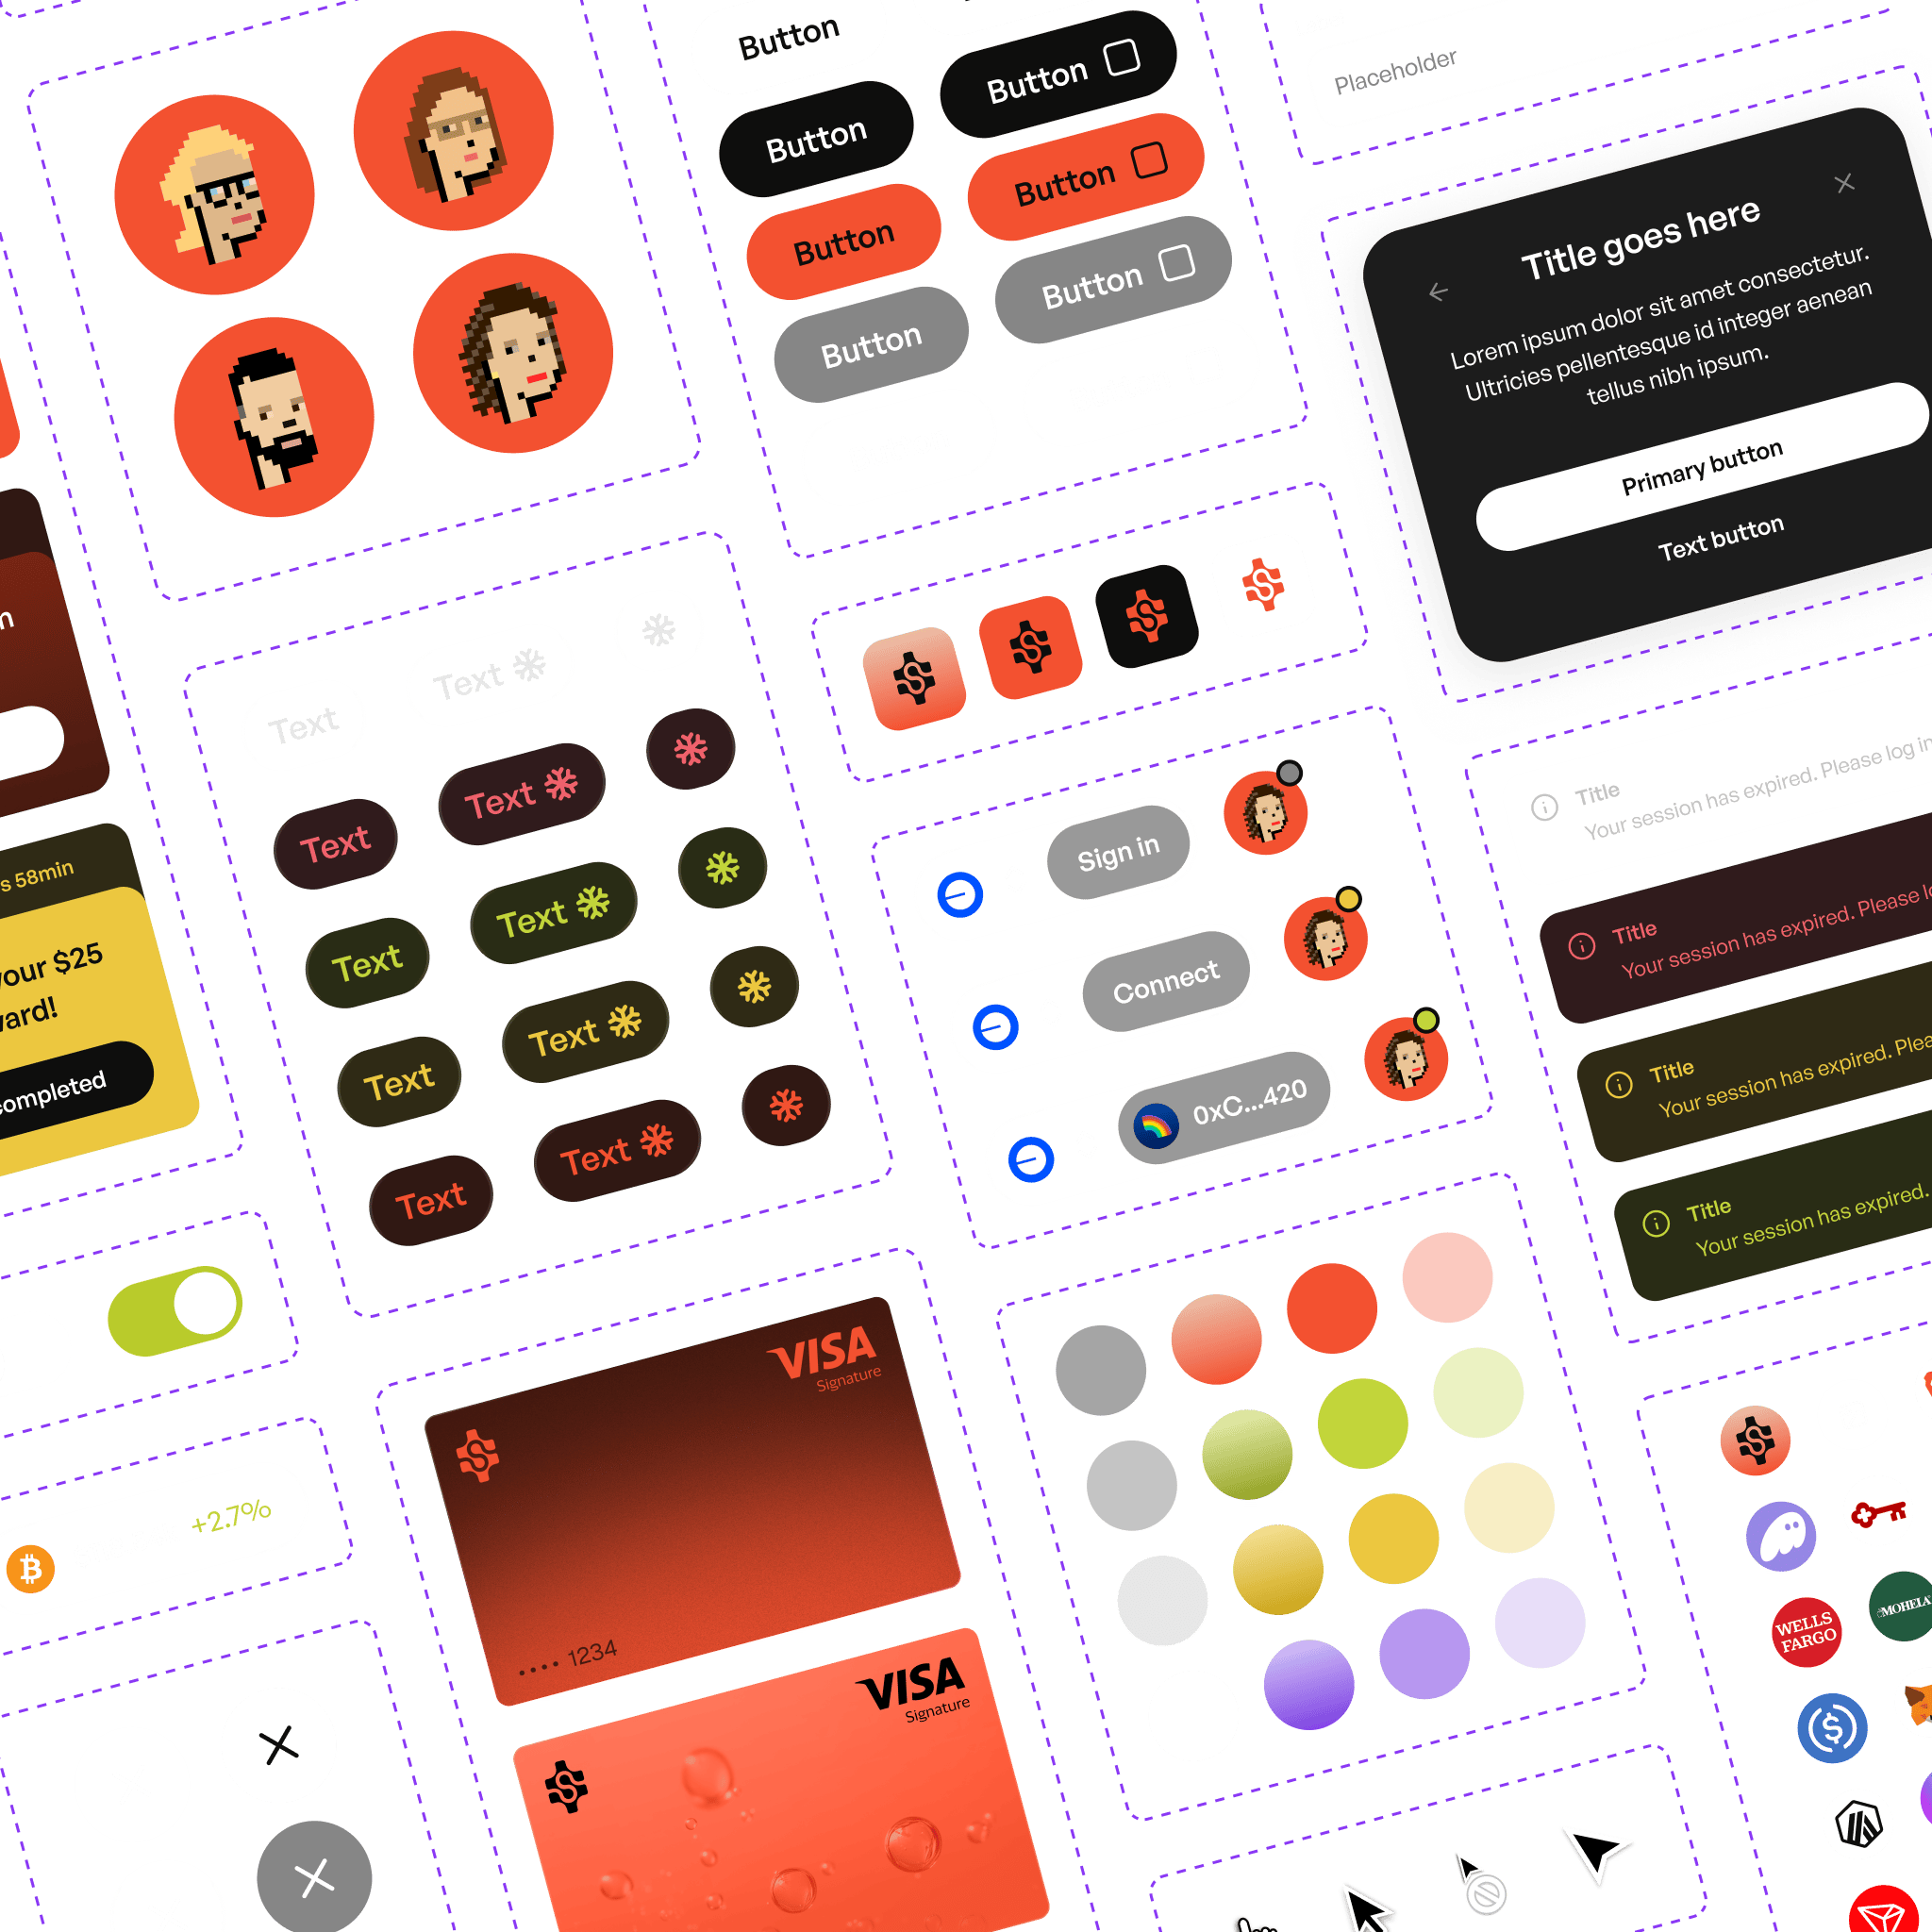
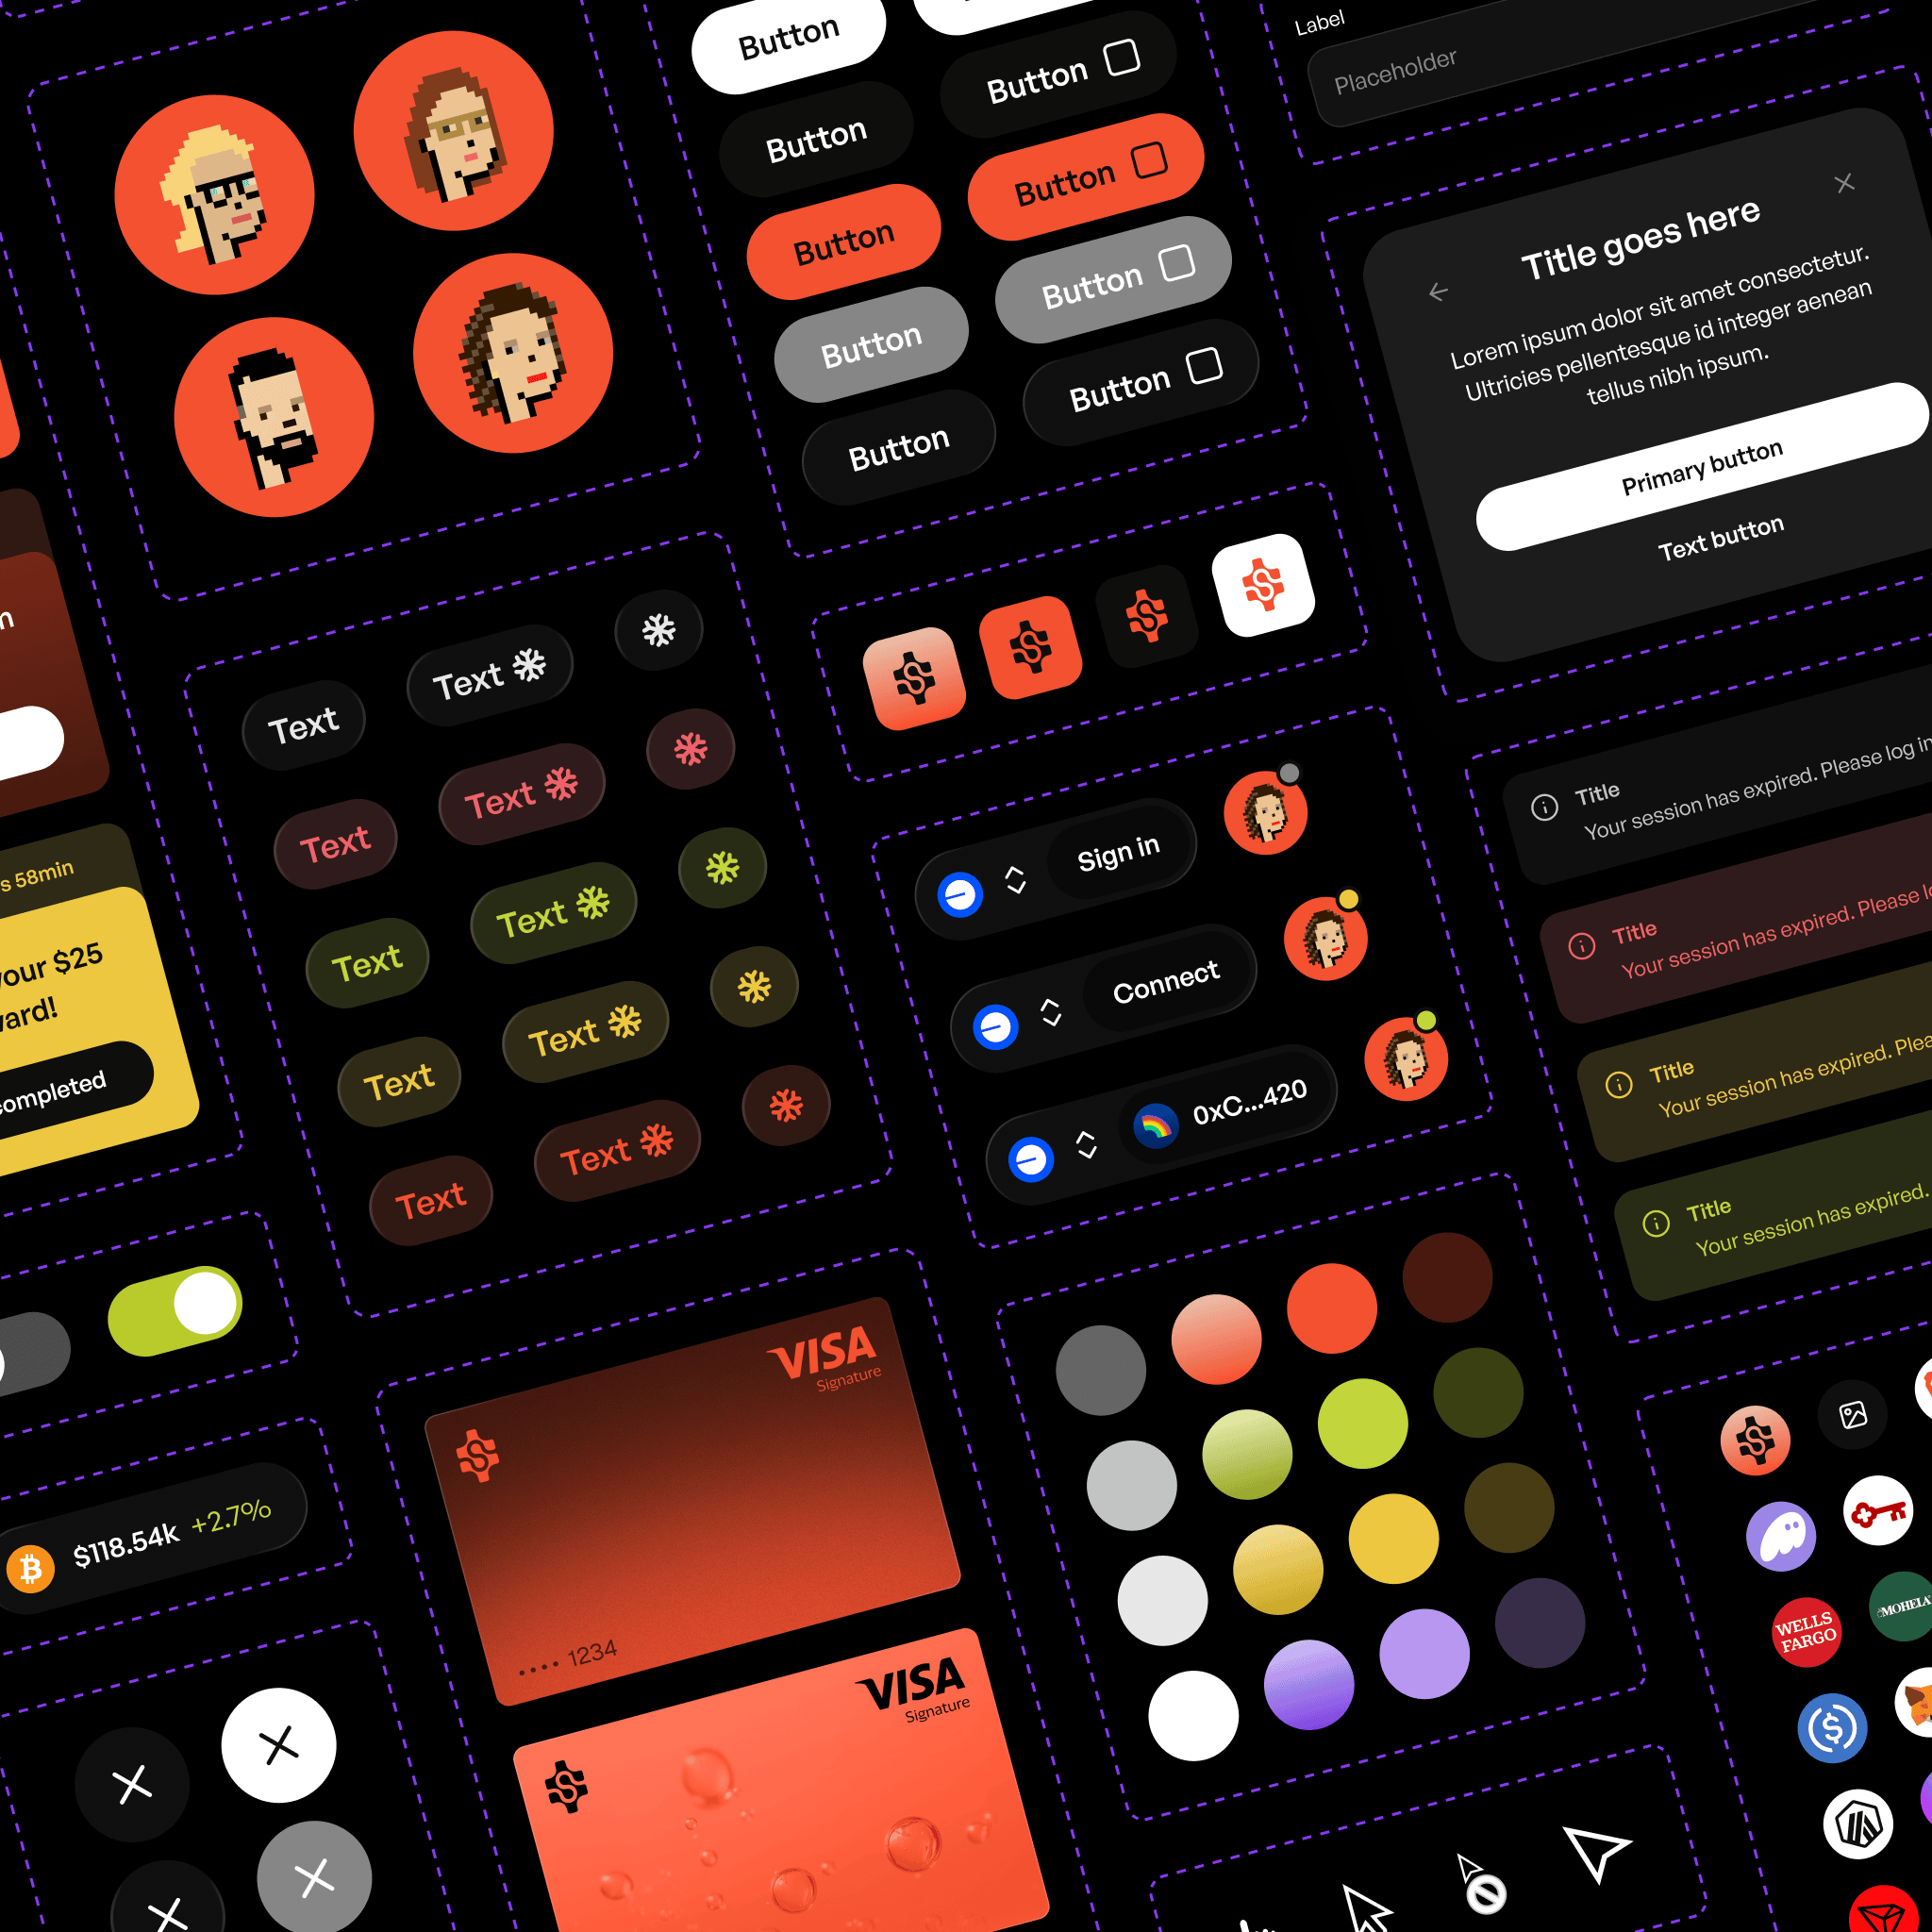
feat: update Spritz carousel with new assets and refined copy for rewards and crisis communication slides

diff --git a/index.html b/index.html
@@ -472,12 +472,11 @@
                 accessible from the nav, framed to extract useful signal, not just sentiment.</span></p>
           </div>
           <div class="carousel-item">
-            <div class="carousel-slide"></div>
-            <p class="carousel-caption"><span>Referral & Rewards.</span> <span class="muted">Cleaner breakdown of total,
-                referral, and revenue share rewards with tabbed navigation.</span></p>
+            <div class="carousel-slide"><img src="img/Spritz/rewards.png" alt="Referral & Rewards" class="fill"></div>
+            <p class="carousel-caption"><span>Referral & Rewards.</span> <span class="muted">Reward unlock steps, referral loop, and earnings progress — multiple motivational mechanics designed to drive activation and retention.</span></p>
           </div>
           <div class="carousel-item">
-            <div class="carousel-slide"></div>
+            <div class="carousel-slide"><img src="img/Spritz/crisis.png" alt="Crisis Communication" class="fill"></div>
             <p class="carousel-caption"><span>Crisis Communication.</span> <span class="muted">A distinct visual
                 treatment for a frozen funds recovery program — honest, calm, and compliant.</span></p>
           </div>